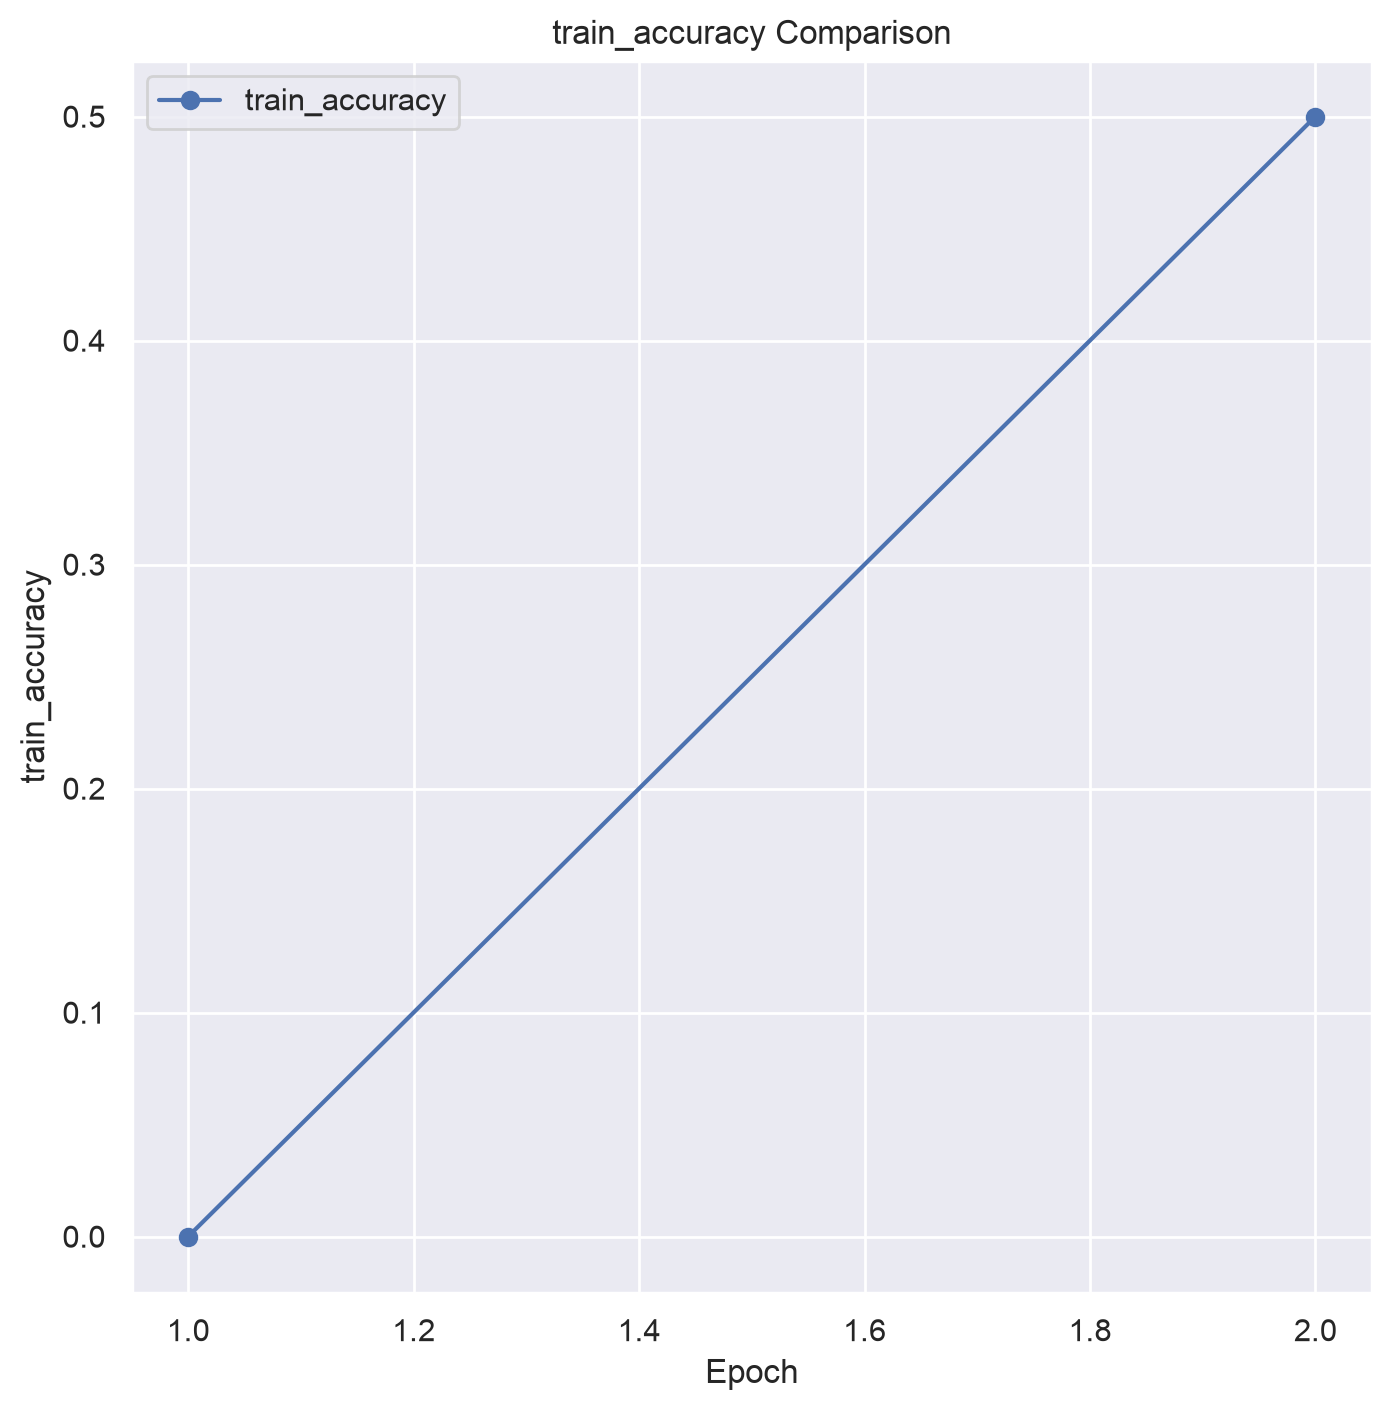
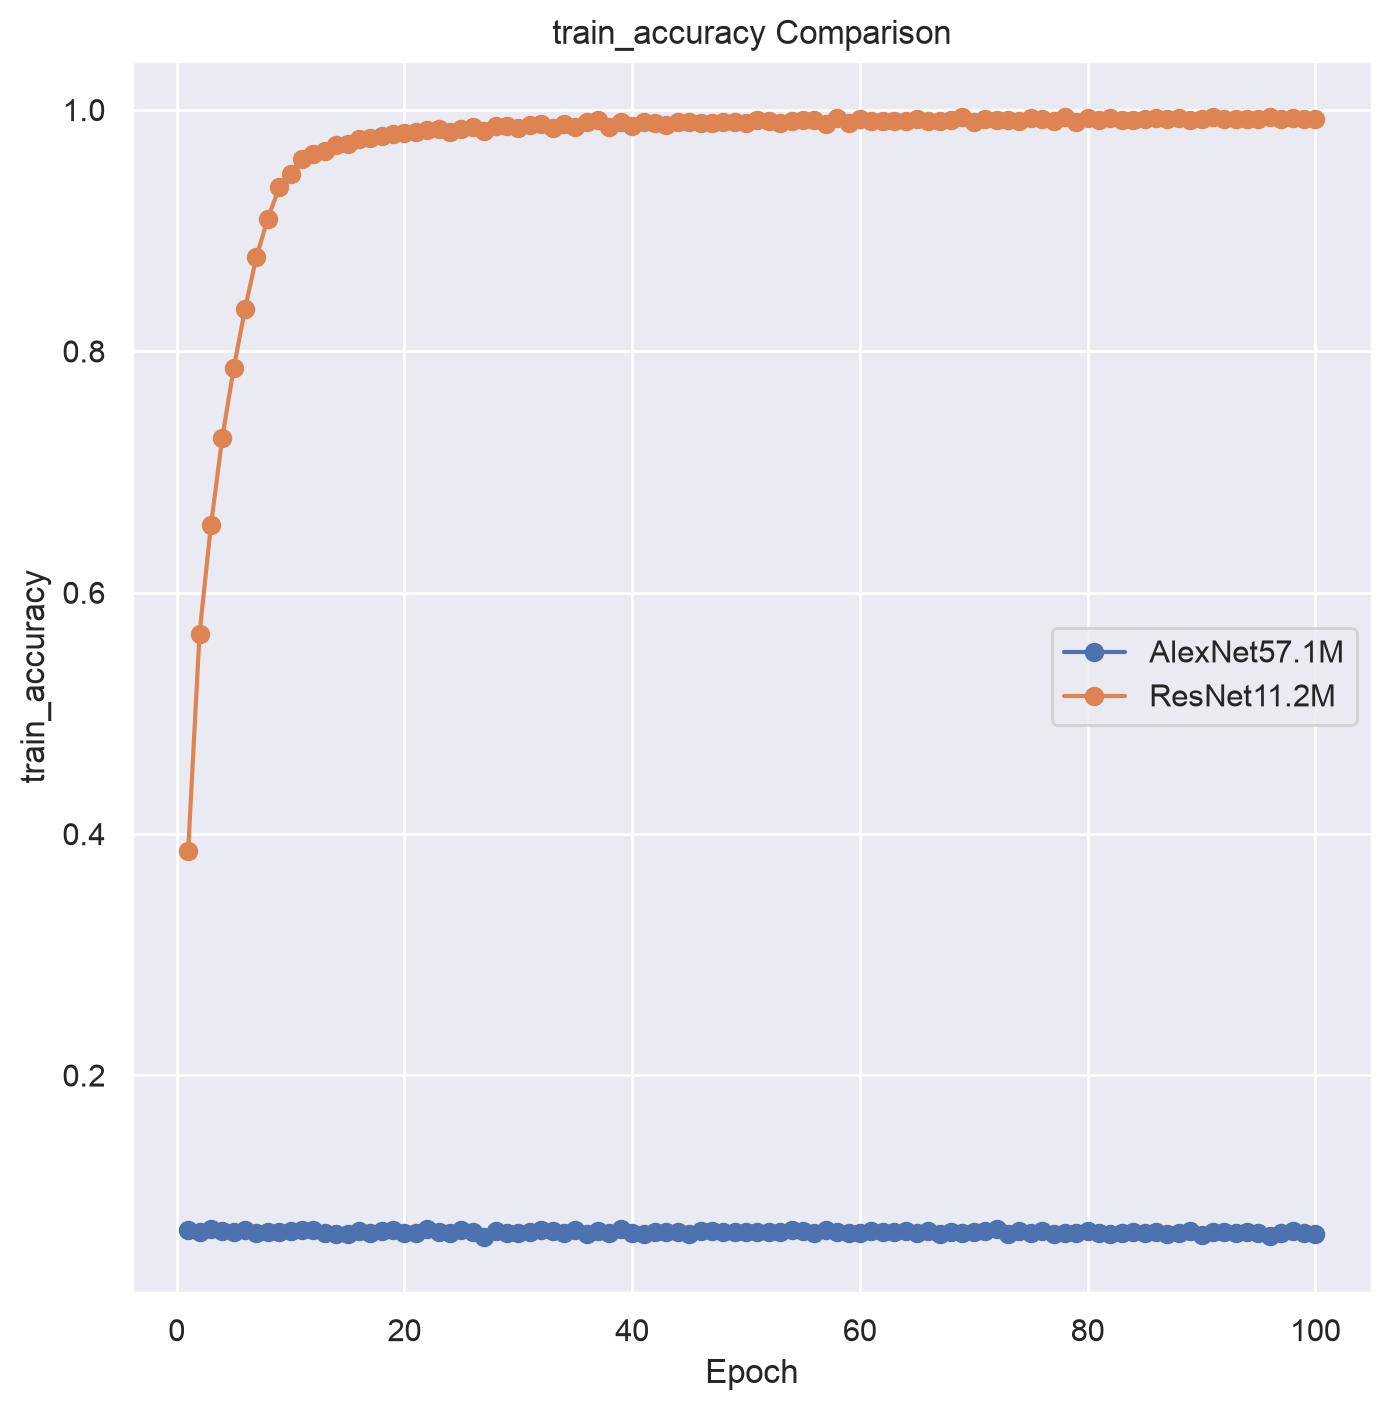
make graphs generate multiple curves

diff --git a/src/evaluate/plotting_utils.py b/src/evaluate/plotting_utils.py
@@ -1,13 +1,13 @@
 
-import matplotlib.pyplot as plt
-import seaborn as sb
-import numpy as np
 from pathlib import Path
+
+import matplotlib.pyplot as plt
 import polars as pl
-from sklearn.metrics import roc_curve, auc
+import seaborn as sb
+from sklearn.metrics import auc, roc_curve
 from sklearn.preprocessing import label_binarize
 
-
+from typing import Iterable
 
 sb.set_theme(style="darkgrid")
 
@@ -59,21 +59,25 @@ def plot_metric_graphs(epoch, train_loss, val_loss, filename="metrics.png"):
         plt.close(fig)
 
 
-def compare_metrics(metric_dict: pl.DataFrame, filename="metrics_comparison.png"):
-    for metric_name in metric_dict.columns:
+def compare_metrics(metric_dfs: dict[str, pl.DataFrame]):
+    if len(metric_dfs) == 0:
+        print("Cannot supply plots for metrics of length 0.")
+        return
+
+    for metric_name in next(iter(metric_dfs.values())).columns:
         if metric_name == "epoch":
             continue
-        values = metric_dict[metric_name]
-        epochs = range(1, len(values) + 1)
+
         fig, ax = plt.subplots(figsize=(8, 8))
 
-        ax.plot(epochs, values, marker="o", label=metric_name)
+        for model_name, metric_df in metric_dfs.items():
+            values = metric_df[metric_name]
+            epochs = range(1, len(values) + 1)
+            ax.plot(epochs, values, marker="o", label=f"{model_name}")
+
         ax.set_xlabel("Epoch")
         ax.set_ylabel(metric_name)
         ax.set_title(f"{metric_name} Comparison")
         ax.legend()
         fig.savefig(output_folder / f"{metric_name}.png", dpi=200, bbox_inches="tight")
         plt.close(fig)
-        
-#########################
-

diff --git a/gen_plots/make_plots.py b/gen_plots/make_plots.py
@@ -1,0 +1,51 @@
+from pathlib import Path
+import polars as pl
+from evaluate import plotting_utils as pu
+
+from rich import print
+import pretty_errors
+
+results_dir = Path(__file__).parent.parent / "results"
+
+# collect train and test files
+train_files = [file for file in results_dir.glob("*training*.csv")]
+test_files = [file for file in results_dir.glob("*testing*.csv")]
+
+print("-"*20)
+
+print("Found training datafiles:")
+for file in train_files:
+    print(file)
+
+print()
+
+print("Found testing datafiles:")
+for file in test_files:
+    print(file)
+
+print("-"*20)
+
+associated_train_data = {}
+associated_test_data = {}
+
+# iterate over files, storing model names and training data
+for file in train_files:
+    train_model_name = file.name.split("_")[0]
+    print(f"Collecting metrics for train model: {train_model_name}")
+    train_data = pl.read_csv(file)
+    associated_train_data[train_model_name] = train_data
+
+for test_file in test_files:
+    test_model_name  = test_file.name.split("_")[0]
+    print(f"Collecting metrics for test model: {test_model_name}")
+    test_data  = pl.read_csv(test_file)
+    associated_test_data[test_model_name] = test_data
+
+print("Collected Training_Data")
+print(associated_train_data)
+
+print("Collected Testing Data")
+print(associated_test_data)
+    
+pu.compare_metrics(associated_train_data)
+pu.compare_metrics(associated_test_data)
